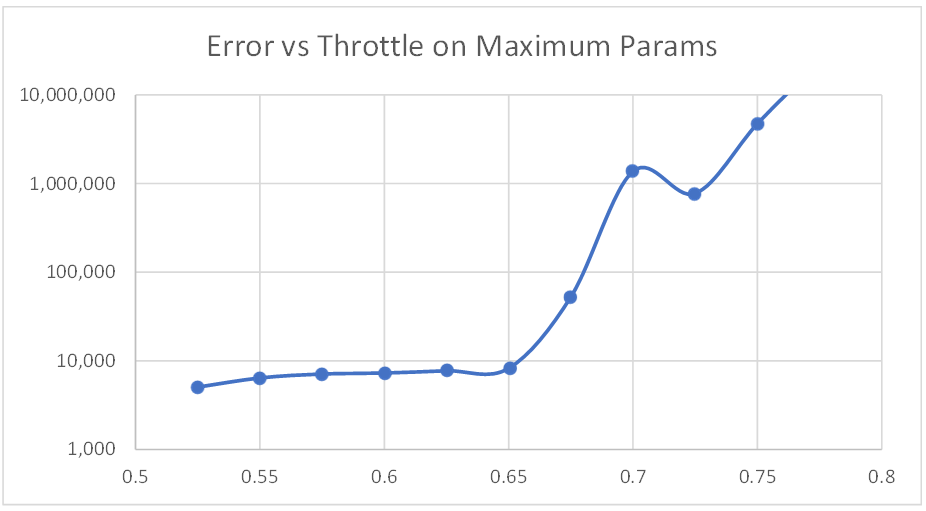
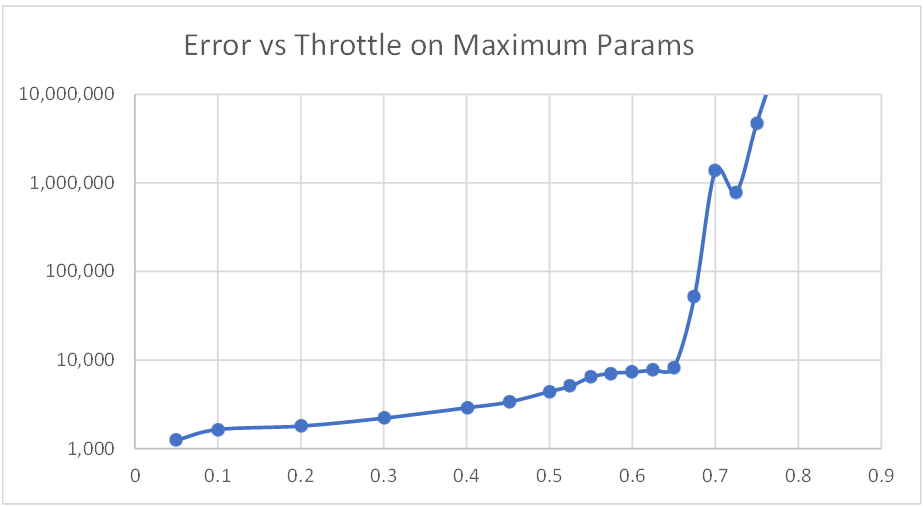
Review Reflections

diff --git a/AnthonyKnightTerm2Assignment4Reflections.md b/AnthonyKnightTerm2Assignment4Reflections.md
@@ -9,13 +9,13 @@
 
 ---
 
-[Link to Youtube video]("https://www.youtube.com/watch?v=BbUgvfqjlbA")
+[Link to Youtube video](https://www.youtube.com/watch?v=BbUgvfqjlbA "PID Controller")
 
 
 
-I found that I was able to use manual tuning to determine suitable PID parameters (Kp = 0.244, Ki = 0.0, and Kd = 8.91) that generally worked until the car throttle went above 0.65.  Ki was zero as there was no observable steering bias away from the center of the road.  
+I found that I was able to use manual tuning to determine suitable PID parameters (Kp = 0.244, Ki = 0.0, and Kd = 8.91) that generally worked with the simulator on my computer until the car throttle went above 0.65.  Ki was zero as there was no observable steering bias away from the center of the road.
 
-The results of tests completed with these PID parameter settings as the throttle rate was increased in subsequent runs show, in Figure 2, how the cumulative error rate in each run remained relatively constant until an inflection point near throttle setting of 0.65, beyond which the cumulative error metric increased significantly.  This suggests that the more the throttle rate was increased beyond this point, the sooner the car left the track - increasing the CTE measurements.
+The results of tests completed with these PID parameter settings as the throttle rate was increased in subsequent runs of 12,000 iterations show, in Figure 2, how the cumulative error rate in each run increased almost in direct correlation to the throttle rate increase until an inflection point near the throttle setting of 0.65, beyond which the cumulative error metric increased dramatically.  This suggests that the more the throttle rate was increased beyond this point, the sooner the car left the track - increasing the number of extremely large CTE measurements.  
 
 ---
 
@@ -27,17 +27,20 @@ The results of tests completed with these PID parameter settings as the throttle
 
 ---
 
-The car was likely to crash within a couple of laps at throttle levels greater than 0.65, although when my computer was running smoothly, the car could complete multiple circuits of the track even at throttle rates as high as 0.75 (resulting in top speeds in mid 70's). The car might also crash at lower speeds if there was additional loading on my computer (like when I was trying to screengrab video of the simulation, or when my machine began indexing hard drives or running other background tasks - which I assume introduced extra latency between receiving offset measurements and applying the steer command).  This reinforced the need to use something like a real time OS or microcontroller to actually deal with moderating steering rather than through an OS like Microsoft Windows.
 
-Although I was interested in using a system like twiddle to automatically tune the PID parameters, I found that manually tuning the parameters allowed me to observe how the PID process worked.  I initially compared the performance of PID parameters in a purely qualitative manner, as it was easy to see how poorly a parameter combination was working (when it steered off the track quickly).  I added in a quasi-quantitative metric which cumulatively summed the square of the CTE at each measurement.  I assumed that the time interval between measurements was relatively constant during and between runs.  I then compared how this metric increased/decreased when running the car around the track for a specific number of CTE measurements.  However, I noticed that this method was not a holistic measurement of the quality of the handling/ride of the car that the PID parameters produced:  
+The car was likely to crash within a couple of laps at throttle levels greater than 0.65, although when my computer was running smoothly, the car could complete multiple circuits of the track even at throttle rates as high as 0.75 (resulting in top speeds in mid 70's). The car might also crash at lower speeds if there was additional loading on my computer (like when I was trying to screengrab video of the simulation, or when my machine began indexing hard drives or running other background tasks - which I assume introduced extra latency between receiving offset measurements and applying the steer command).  This reinforced the need to use something like a real time OS or microcontroller to actually deal with moderating steering in a real car rather than through an OS like Microsoft Windows.
 
-  1) I observed that sometimes the car went much further for the same number of CTE measurements even though the same throttle rate was applied.  I think this may have been because the steering was smoother.  A more choppy ride with more rapid changes in the direction of steering caused the velocity of the car to be reduced which resulted in the distance the car travelled being smaller for the same number of measurements.  However, the slower choppier ride might also produce a smaller CTE error than the faster ride.
+Although I was interested in using a system like twiddle to automatically tune the PID parameters, I found that manually tuning the parameters allowed me to observe how the PID process worked.  I initially compared the performance of PID parameters in a purely qualitative manner, as it was easy to see how poorly a parameter combination was working (when the car steered off the track or wobbled violently).  I added in a quasi-quantitative metric which cumulatively summed the square of the CTE at each measurement.  I assumed that the time interval between measurements was relatively constant during and between runs.  I then compared how this metric increased/decreased when running the car around the track for a specific number of CTE measurements.  However, I noticed that this method was not a holistic measurement of the quality of the handling/ride of the car that the PID parameters produced:  
 
-  2) I found that small differences in the direction and exact position that the car entered a curve could make a big difference in how the car reacted even when the throttle rate and velocity entering the curve were the same.  This suggested that to get good results with twiddle, would require that the car pass around the track several times so that this difference between runs would be minimized.  Otherwise the quantitative CTE measurements might be more reflective of the vehicle pose at the start of the turn as compared to the PID measurements.  
+  1) I observed that as PID parameters were varied, the car sometimes went much further for the same number of CTE measurements even though the same throttle rate was applied.  I think this may have been because the steering was smoother.  A more choppy ride with more rapid changes in the direction of steering caused the velocity of the car to be reduced which resulted in the distance the car travelled being smaller for the same number of measurements.  However, the slower choppier ride might also produce a smaller CTE error than the faster smoother ride indicating, incorrectly in my opinion, that it was a better solution.
 
-  3) These findings indicate that much better results could be achieved (with need for less testing) if exact poses on the track (position, direction, initial steer, velocity) could be set for the start of a variety of conditions on the simulator.  Quantitative measurement of PID performance could also be better achieved with access to the exact measurement time and pose of car on the track for each CTE measurement, in order to determine exactly how smooth the resulting path was, and which combination of PID parameters resulted in the car travelling the furthest distance around the track in the same time.
+  2) I found that even when the throttle rate and velocity of the car were constant between test runs small differences in other aspects of the pose of the car (direction, offset from center, steering angle) when entering a curve could make a big difference in how the car reacted.  This suggested that to get good results with twiddle, would require that the car pass around the track multiple times so that the difference between runs would be minimized.  Otherwise the quantitative CTE measurements might be more reflective of the vehicle pose at the start of each turn as compared to the PID settings.  
+
+  3) These findings indicate that much better results could be achieved (with need for less simulation) if exact car pose on the track (position, direction, initial steer, velocity) could be set for a variety of conditions on the simulator.  Quantitative measurement of PID performance could also be better achieved with access to the exact measurement time and pose of car on the track for each CTE measurement, in order to determine exactly how smooth the resulting path was, and which combination of PID parameters resulted in the car travelling the furthest distance around the track in the same time.
 
 I also ran a couple of sets of tests when varying other parameters.  I tested how restricting the steering below the amounts allowed by the simulator affected performance.  I found that limiting the steering below less than +/- 14 degrees (55% of the allowed +/-25 degrees) began to significantly impact PID performance.  The difference above this amount was small, but it appeared to me that restricting the steering to +/- 15.5 degrees (62% of allowed amount) produced slightly better performance at higher throttle rates than letting the steering range between +- 25 degrees.
+
+If I had additional time, I would have built twiddle functionality in, and would have tested if or how optimal P and D settings varied as the throttle rate and speed of the car was increased.  If such a correlation existed, a speed sensitive PID controller could then have been created.
 
 ----
 

diff --git a/README.md b/README.md
@@ -1,6 +1,9 @@
 # CarND-Controls-PID
 Self-Driving Car Engineer Nanodegree Program
 
+Please read [AnthonyKnightTerm2Assignment4Reflections.md](https://github.com/teeekay/CarND-PID-Control-Project/blob/master/AnthonyKnightTerm2Assignment4Reflections.md "reflections") to see observations regarding completion of this project.
+
+
 ---
 
 ## Dependencies
